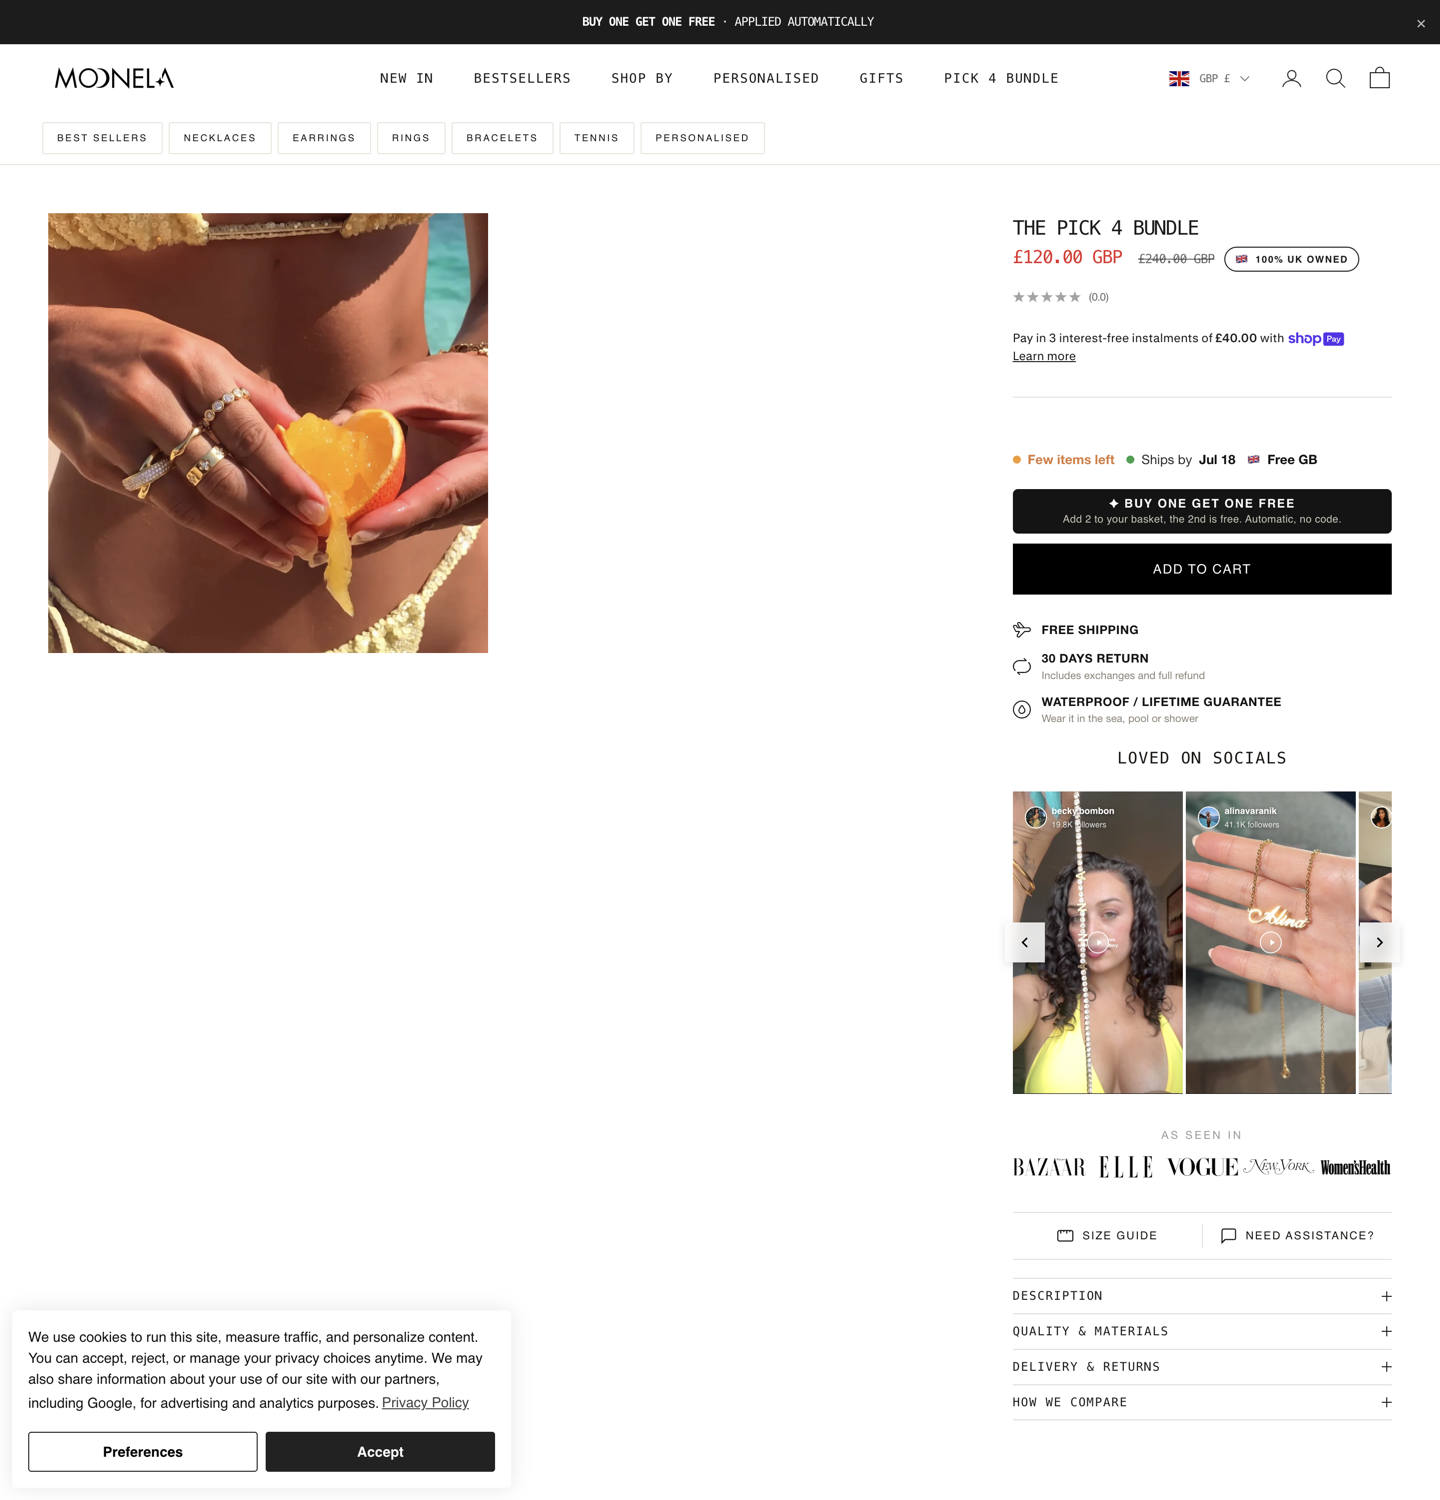
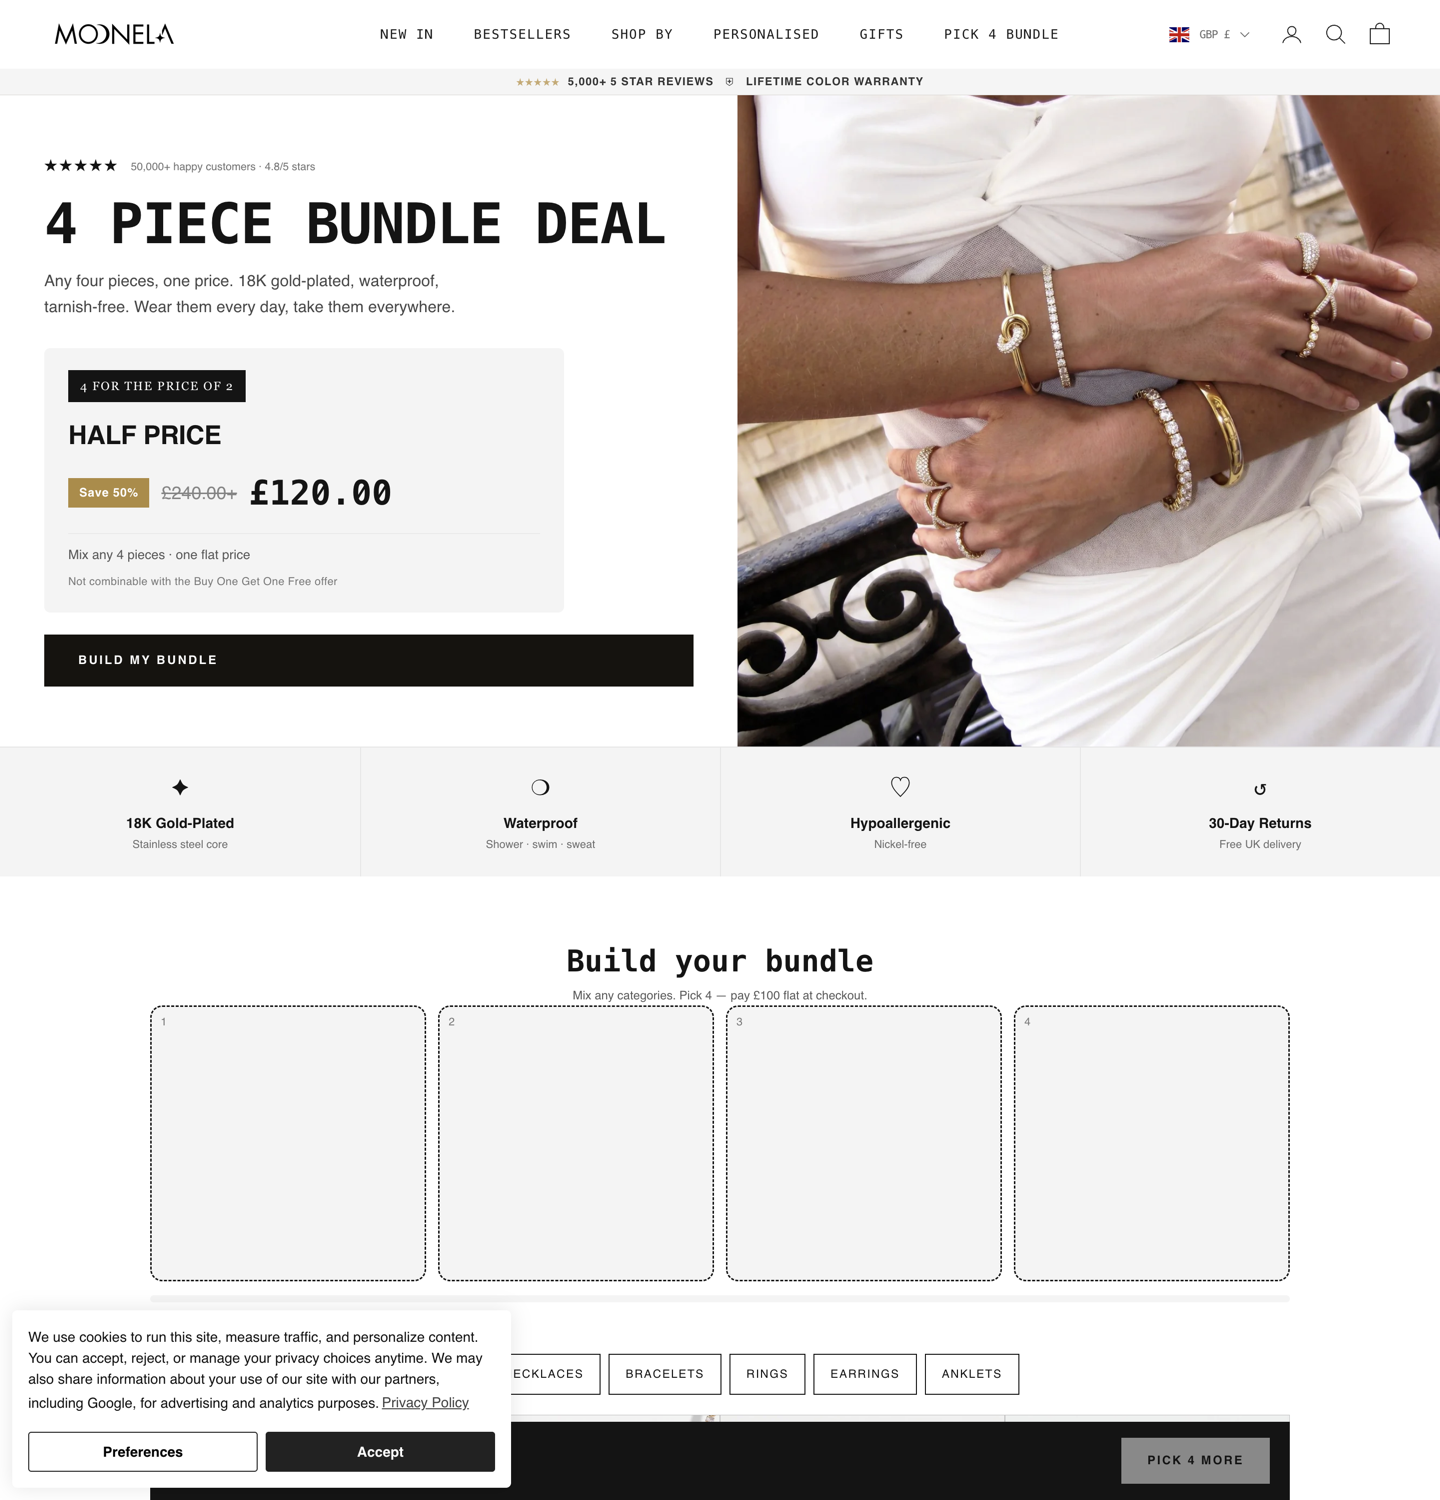
Portfolio: remove press/reviews claims + two model photos; fix Pick 4 link to /pages/pick-4-mix + update screenshot

diff --git a/index.html b/index.html
@@ -775,19 +775,14 @@
             <div class="cap"><b>Product</b><span>Conversion</span></div>
           </div>
           <div class="card">
-            <div class="frame"><a href="https://moonela.co.uk/products/the-pick-4-bundle" target="_blank" rel="noopener" style="display:block;height:100%"><img src="assets/moonela_bundle4.png" alt="Moonela Pick 4 bundle page" /></a></div>
+            <div class="frame"><a href="https://moonela.co.uk/pages/pick-4-mix" target="_blank" rel="noopener" style="display:block;height:100%"><img src="assets/moonela_bundle4.png" alt="Moonela Pick 4 bundle page" /></a></div>
             <div class="cap"><b>Pick 4 bundle</b><span>AOV</span></div>
           </div>
         </div>
 
         <!-- proof -->
         <div class="proof">
-          <div class="press-lab">As featured in</div>
-          <div class="press">
-            <span>GQ</span><span>ELLE</span><span>Bazaar</span><span>Esquire</span><span>Forbes</span><span>The Guardian</span>
-          </div>
           <div class="proof-points">
-            <span class="pp"><span class="star">★</span><b>5,000+</b> 5-star reviews</span>
             <span class="pp"><b>Waterproof</b> 18K gold-plated</span>
             <span class="pp">Buy One Get One</span>
             <span class="pp">Pick 4 bundle</span>
@@ -824,10 +819,6 @@
                 <div class="media-block">
                     <p class="media-label">Moonela Photoshoot — Shot by Me</p>
                     <p class="media-description">I personally shot all the product and lifestyle photography for Moonela using my Sony A7CII + 50mm lens. Full creative control from concept to final edit — for homepage visuals and product pages.</p>
-                    <div class="carousel" style="grid-template-columns: 1fr 1fr;">
-                        <div class="carousel-item"><img src="assets/images/moonela_photo1.jpg" alt="Moonela Product Photo" loading="lazy"></div>
-                        <div class="carousel-item"><img src="assets/images/moonela_photo2.jpg" alt="Moonela Lifestyle Photo" loading="lazy"></div>
-                    </div>
                     <div class="media-wrapper" style="margin-top: 24px;"><img src="assets/images/moonela_img.jpeg" alt="Moonela Product" loading="lazy" style="width:100%;border-radius:12px;"></div>
                 </div>
                 <div class="media-block">
